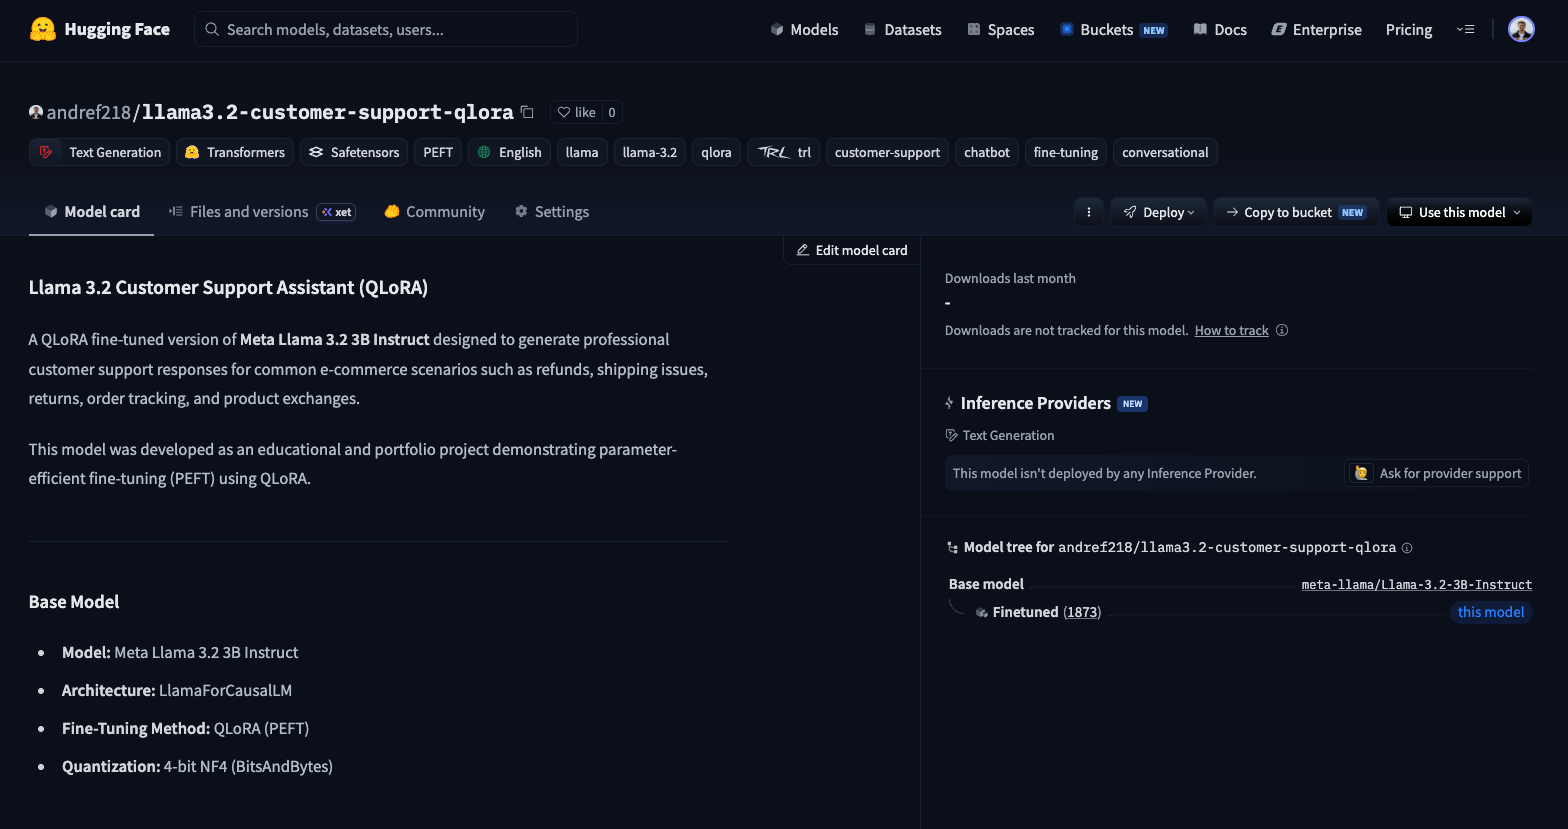
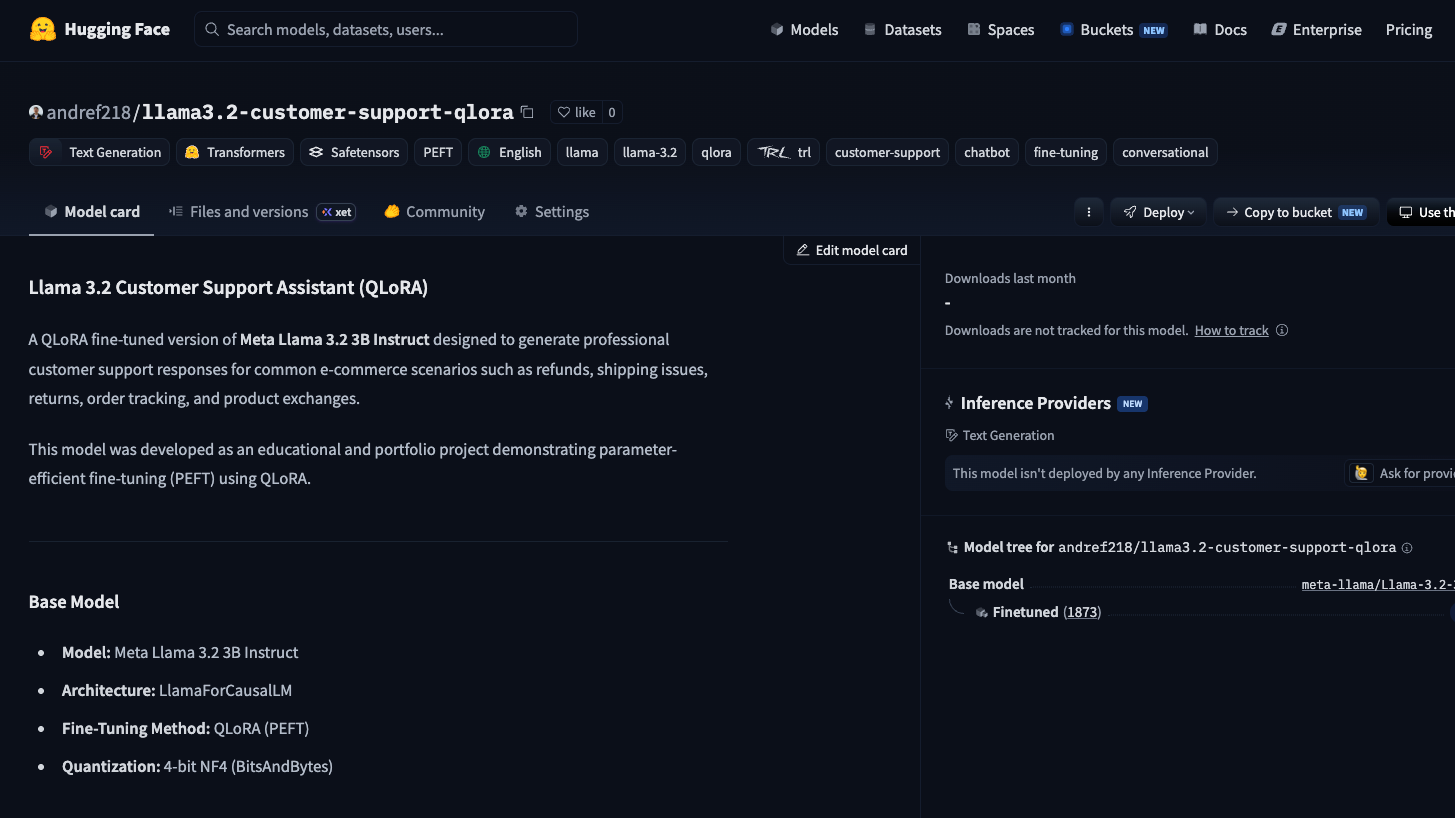
Add GitHub profile link with profile preview and expand project showcase

diff --git a/src/sections/Showcase.jsx b/src/sections/Showcase.jsx
@@ -11,12 +11,14 @@ const Showcase = () => {
   const project1Ref = useRef(null);
   const project2Ref = useRef(null);
   const project3Ref = useRef(null);
+  const project4Ref = useRef(null);
 
   useGSAP(() => {
     const projects = [
       project1Ref.current,
       project2Ref.current,
       project3Ref.current,
+      project4Ref.current,
     ];
 
     projects.forEach((card, index) => {
@@ -49,14 +51,14 @@ const Showcase = () => {
           Some of my Work:
         </h2>
         <div className="showcaselayout">
-          {/* LEFT SIDE*/}
-          <div className="first-project-wrapper" ref={project1Ref}>
-            <div>
+          {/* PROJECT 1 - Vynilz*/}
+          <div className="project-card" ref={project1Ref}>
+            <div className="project-image">
               <a
                 href="https://www.vynilz.com"
                 target="_blank"
                 rel="noopener noreferrer"
-                className="text-white font-semibold hover:opacity-80 transition-opacity duration-300"
+                className="text-white font-semibold hover:opacity-70 transition-opacity duration-300"
               >
                 <img
                   src={getAsset("/images/vynilz_collection.png")}
@@ -70,10 +72,9 @@ const Showcase = () => {
                   href="https://github.com/andref218/vynilz-showcase"
                   target="_blank"
                   rel="noopener noreferrer"
-                  className="text-white font-semibold hover:opacity-80 transition-opacity duration-300"
+                  className="text-white font-semibold hover:opacity-70 transition-opacity duration-300"
                 >
-                  Vynilz - Build your collection, unlock achievements, and
-                  showcase your records.
+                  Vynilz – Build, Track & Showcase Your Vinyl Collection.
                 </a>
               </h2>
               <p className="text-white-50 md:text-xl">
@@ -83,71 +84,103 @@ const Showcase = () => {
               </p>
             </div>
           </div>
-          {/* RIGHT SIDE*/}
-          <div className="project-list-wrapper overflow-hidden">
-            <div className="project" ref={project2Ref}>
-              <div>
-                <a
-                  href="https://github.com/andref218/rag_studio"
-                  target="_blank"
-                  rel="noopener noreferrer"
-                  className="text-white font-semibold hover:opacity-80 transition-opacity duration-300"
-                >
-                  <img
-                    src={getAsset("/images/rag_studio_home_page.png")}
-                    alt="MERN User Management"
-                  />
-                </a>
-              </div>
 
+          {/* PROJECT 2 - RAG Studio */}
+          <div className="project-card" ref={project2Ref}>
+            <div className="project-image">
+              <a
+                href="https://github.com/andref218/rag_studio"
+                target="_blank"
+                rel="noopener noreferrer"
+                className="text-white font-semibold hover:opacity-70 transition-opacity duration-300"
+              >
+                <img
+                  src={getAsset("/images/rag_studio_home_page.png")}
+                  alt="MERN User Management"
+                />
+              </a>
+            </div>
+
+            <h2>
+              <a
+                href="https://github.com/andref218/rag_studio"
+                target="_blank"
+                rel="noopener noreferrer"
+                className="text-white font-semibold hover:opacity-70 transition-opacity duration-300"
+              >
+                RAG Studio - AI assistant powered by your own documents.
+              </a>
+            </h2>
+            <p className="text-white-50 md:text-xl mt-2">
+              A Retrieval-Augmented Generation (RAG) application that retrieves
+              relevant information from custom documents to generate accurate,
+              context-aware responses using a local LLM.
+            </p>
+          </div>
+          {/* PROJECT 3 - Job Application Tracker*/}
+          <div className="project-card" ref={project3Ref}>
+            <div className="project-image">
+              <a
+                href="https://job-application-tracker-azure-sigma.vercel.app/"
+                target="_blank"
+                rel="noopener noreferrer"
+                className="text-white font-semibold hover:opacity-80 transition-opacity duration-300"
+              >
+                <img
+                  src={getAsset("/images/jobApplicationTrackerHomePage.png")}
+                  alt="Job Application Tracker"
+                ></img>
+              </a>
+            </div>
+            <div className="text-content">
               <h2>
                 <a
-                  href="https://github.com/andref218/rag_studio"
+                  href="https://github.com/andref218/job_application_tracker"
                   target="_blank"
                   rel="noopener noreferrer"
                   className="text-white font-semibold hover:opacity-80 transition-opacity duration-300"
                 >
-                  RAG Studio - AI assistant powered by your own documents.
+                  YourJobs - Organize and Track Your Job Applications
                 </a>
               </h2>
-              <p className="text-white-50 md:text-xl mt-2">
-                A Retrieval-Augmented Generation (RAG) application that
-                retrieves relevant information from custom documents to generate
-                accurate, context-aware responses using a local LLM.
+              <p className="text-white-50 md:text-xl">
+                A full-stack app to track job applications, manage companies and
+                positions, built with Next.js, React.js, and Tailwind CSS.
               </p>
             </div>
-            <div className="project" ref={project3Ref}>
-              <div>
-                <a
-                  href="https://github.com/andref218/llama3.2-customer-support-qlora"
-                  target="_blank"
-                  rel="noopener noreferrer"
-                  className="text-white font-semibold hover:opacity-80 transition-opacity duration-300"
-                >
-                  <img
-                    src={getAsset(
-                      "/images/llama3_2_customer_support_qlora_hugging_face.png",
-                    )}
-                    alt="MERN User Management"
-                  />
-                </a>
-              </div>
-              <h2>
-                <a
-                  href="https://github.com/andref218/llama3.2-customer-support-qlora"
-                  target="_blank"
-                  rel="noopener noreferrer"
-                  className="text-white font-semibold hover:opacity-80 transition-opacity duration-300"
-                >
-                  Llama 3.2 Customer Support Fine-Tuning
-                </a>
-              </h2>
-              <p className="text-white-50 md:text-xl  mt-2">
-                Fine-tuned the Meta Llama 3.2 Instruct model for customer
-                support using QLoRA and PEFT, publishing the trained LoRA
-                adapter on the Hugging Face Hub.
-              </p>
+          </div>
+          {/* PROJECT 4 - Llama 3.2 Customer Support Fine-Tuning*/}
+          <div className="project-card" ref={project4Ref}>
+            <div className="project-image">
+              <a
+                href="https://huggingface.co/andref218/llama3.2-customer-support-qlora"
+                target="_blank"
+                rel="noopener noreferrer"
+                className="text-white font-semibold hover:opacity-80 transition-opacity duration-300"
+              >
+                <img
+                  src={getAsset(
+                    "/images/llama3_2_customer_support_qlora_hugging_face.png",
+                  )}
+                  alt="MERN User Management"
+                />
+              </a>
             </div>
+            <h2>
+              <a
+                href="https://github.com/andref218/llama3.2-customer-support-qlora"
+                target="_blank"
+                rel="noopener noreferrer"
+                className="text-white font-semibold hover:opacity-80 transition-opacity duration-300"
+              >
+                Llama 3.2 Customer Support Fine-Tuning
+              </a>
+            </h2>
+            <p className="text-white-50 md:text-xl  mt-2">
+              Fine-tuned the Meta Llama 3.2 Instruct model for customer support
+              using QLoRA and PEFT, publishing the trained LoRA adapter on the
+              Hugging Face Hub.
+            </p>
           </div>
         </div>
       </div>

diff --git a/src/sections/About.jsx b/src/sections/About.jsx
@@ -3,6 +3,8 @@ import TitleHeader from "../components/TitleHeader";
 import gsap from "gsap";
 import { useGSAP } from "@gsap/react";
 import { ScrollTrigger } from "gsap/ScrollTrigger";
+import { FaGithub } from "react-icons/fa";
+import { getAsset } from "../utils/paths";
 
 gsap.registerPlugin(ScrollTrigger);
 
@@ -55,6 +57,49 @@ const About = () => {
             looking for ways to improve both my technical skills and the overall
             quality of my work.
           </p>
+
+          <p className="about-text mt-4 text-white-50 text-center text-lg font-bold">
+            All of my projects are available at:
+          </p>
+
+          <div className="about-text mt-2 flex justify-center z-50">
+            <div className="group relative inline-block">
+              <a
+                href="https://github.com/andref218"
+                target="_blank"
+                rel="noopener noreferrer"
+                className="flex items-center gap-2 text-blue-400 text-lg hover:text-blue-300 underline underline-offset-4 transition-colors"
+              >
+                <FaGithub size={22} />
+                github.com/andref218
+              </a>
+
+              <div
+                className="pointer-events-none absolute left-1/2 top-full z-[9999] mt-5 -translate-x-1/2 translate-y-2 opacity-0
+                scale-95 transition-all duration-300 ease-out group-hover:opacity-100 group-hover:translate-y-0 group-hover:scale-100"
+              >
+                <div className="w-[700px] overflow-hidden rounded-2xl border border-white/10 bg-[#111111] shadow-2xl">
+                  {/* Browser Header */}
+                  <div className="flex items-center gap-2 border-b border-white/10 bg-[#1a1a1a] px-4 py-3">
+                    <div className="h-3 w-3 rounded-full bg-red-500" />
+                    <div className="h-3 w-3 rounded-full bg-yellow-500" />
+                    <div className="h-3 w-3 rounded-full bg-green-500" />
+
+                    <div className="ml-4 flex-1 rounded-full bg-black/30 px-4 py-1 text-center text-xs text-gray-400">
+                      github.com/andref218
+                    </div>
+                  </div>
+
+                  {/* Github Profile Preview */}
+                  <img
+                    src={getAsset("/images/github_profile_preview.png")}
+                    alt="GitHub Preview"
+                    className="w-full"
+                  />
+                </div>
+              </div>
+            </div>
+          </div>
         </div>
       </div>
     </section>

diff --git a/src/index.css b/src/index.css
@@ -168,50 +168,36 @@ section {
   }
 
   .app-showcase {
-    @apply w-full mt-10 px-5 md:px-20 py-10 md:py-20 flex items-center justify-center;
+    @apply w-full mt-10 px-5 md:px-20 py-10 md:py-15 flex items-center justify-center;
 
     .showcaselayout {
-      @apply flex xl:flex-row flex-col gap-10 justify-between;
+      @apply grid grid-cols-1 xl:grid-cols-2 gap-10;
     }
 
-    .first-project-wrapper {
-      @apply h-full flex flex-col justify-between xl:w-[60%];
-
-      .image-wrapper {
-        @apply xl:h-[70vh] md:h-[50vh] h-96 relative;
-
-        img {
-          @apply w-full h-full object-cover rounded-xl absolute inset-0;
-        }
-      }
-
-      .text-content {
-        @apply space-y-2 mt-5;
-
-        .badges {
-          @apply flex gap-2 mb-4;
-        }
-
-        h2 {
-          @apply text-2xl md:text-3xl lg:text-4xl font-bold;
-        }
-      }
+    .project-card {
+      @apply flex flex-col;
     }
 
-    .project-list-wrapper {
-      @apply flex md:flex-row flex-col xl:flex-col gap-10 xl:w-[40%];
+    .project-card img {
+      @apply w-full rounded-xl object-cover;
+    }
 
-      .image-wrapper {
-        @apply xl:h-[37vh] md:h-52 lg:h-72 h-64 relative rounded-xl xl:px-5 2xl:px-12 py-0;
-      }
+    .project-card h2 {
+      @apply text-xl md:text-2xl font-semibold mt-5;
+    }
 
-      img {
-        @apply w-full h-full object-contain rounded-xl;
-      }
+    .project-card p {
+      @apply text-white-50 md:text-lg mt-2;
+    }
+    .project-card img {
+      @apply w-full object-cover rounded-xl;
+    }
+    .project-image {
+      @apply w-full aspect-[16/9] overflow-hidden rounded-xl bg-black;
+    }
 
-      h2 {
-        @apply text-lg md:text-xl lg:text-2xl font-semibold mt-5;
-      }
+    .project-image img {
+      @apply w-full h-full object-cover;
     }
   }
 

diff --git a/src/constants/index.js b/src/constants/index.js
@@ -32,7 +32,7 @@ export const words = [
 ];
 
 export const counterItems = [
-  { value: 500, suffix: "+", label: "Hours of Coding" },
+  { value: 600, suffix: "+", label: "Hours of Coding" },
   { value: 400, suffix: "+", label: "Commits pushed" },
   { value: 99, suffix: "+", label: "Bugs Fixed" },
   { value: 24, suffix: "/7", label: "Learning Mode" },
